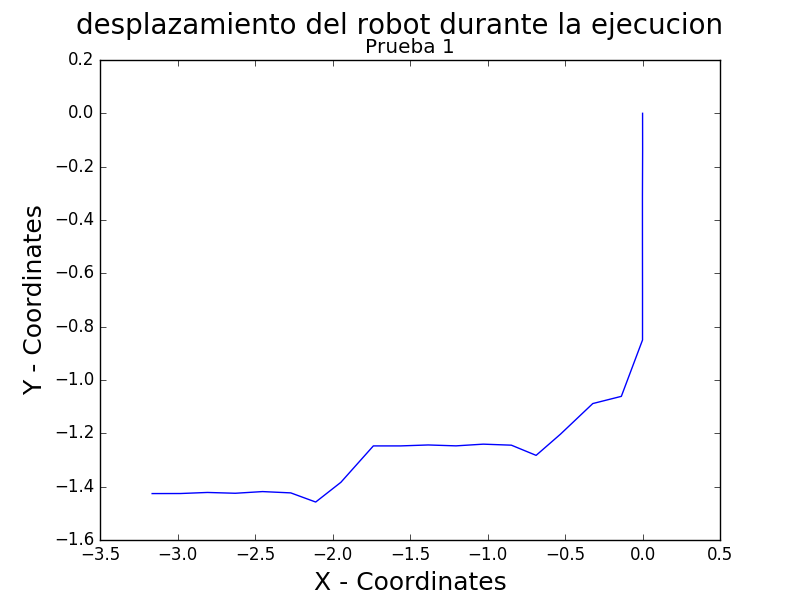
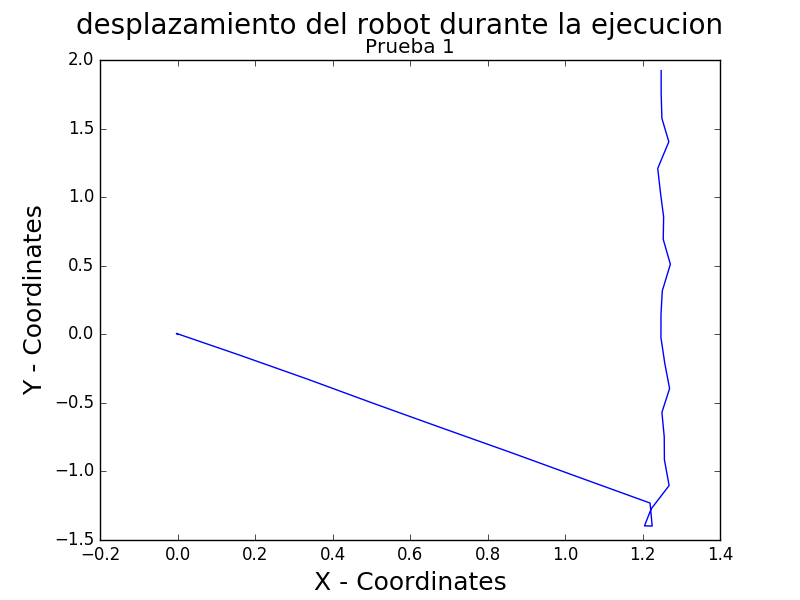
Tried to implement multipath at once!

diff --git a/src/A_star.py b/src/A_star.py
@@ -73,7 +73,7 @@ def redrawGameWindow(win):
     for i in range(cols):
         for j in range(rows):
             pygame.draw.rect(win, (0, 0, 255), (spots[i][j].x * w, 1 + spots[i][j].y * h, w, h), 1)
-    
+
     # Dibujams los openSet con verde
     for i,spot in enumerate(OpenSet):
         pygame.draw.rect(win, (0, 255, 0), (2 + spot.x * w, 3 + spot.y * h, w - 4, h - 4))
@@ -85,9 +85,9 @@ def redrawGameWindow(win):
     # Draw current
     pygame.draw.rect(win, (255, 0, 255), (2 + current.x * w, 3 + current.y * h, w - 4, h - 4))
 
-   # Draw the path in blue
-    for spot in path:
-        pygame.draw.rect(win, (0, 0, 255), (2 + spot.x * w, 3 + spot.y * h, w - 4, h - 4))
+    # Draw the path in blue
+    for spot in total_path:
+        pygame.draw.rect(win, (0, 0, 255), (2 + spot.x * w, 3 + spot.y * h, w - 4, h - 4))    
 
     # Draw Obstacles
     for spot in obstacles:
@@ -120,20 +120,37 @@ for x, y in zip(obstalce_x, obstacle_y):
     spots[int(x)][int(y)].obstacle = True
     obstacles.append(spots[int(x)][int(y)])
 
-OpenSet = []
-closedSet = []
-
-start = spots[21][20]
-end = spots[2][28]
+X_references = []
+Y_references = []
+points_to_go = [(21, 20), (28, 28),(28, 8), (13, 6)]
 path = []
-OpenSet.append(start)
-current = start
+total_path = []
+direction_changed = []
+z = 0
+z_changed = True
 
 gaming = True
 while gaming:
+    if z_changed:
+        OpenSet = []
+        closedSet = []
+        start = spots[points_to_go[z][0]][points_to_go[z][1]]
+        end = spots[points_to_go[z + 1][0]][points_to_go[z + 1][1]]
+        OpenSet.append(start)
+        current = start
+        z_changed = False
+        spots = [[Spot(i, j) for j in range(rows)] for i in range(cols)]
+        for i in range(len(spots)):
+            for j in range(len(spots[i])):
+                spots[i][j].addNeighbors(spots)
+        for x, y in zip(obstalce_x, obstacle_y):
+            spots[int(x)][int(y)].obstacle = True
+            obstacles.append(spots[int(x)][int(y)])
+
     clock.tick(12)
     #Find the path
     temp = current
+    path = []
     path.append(temp)
     #As long as the temp has a previous
     while temp.previous:
@@ -169,10 +186,18 @@ while gaming:
             while temp.previous:
                 current = temp
                 path.append(temp.previous)
+                total_path.append(temp.previous)
                 temp = temp.previous
-            system('cls')
+            for spot in reversed(path):
+                    X_references.append((spot.y - points_to_go[0][1]) * 0.178)
+                    Y_references.append((spot.x - points_to_go[0][0]) * 0.178)
+            direction_changed.append(len(X_references))
             print('Finish!')
-            gaming = False
+            z += 1
+            z_changed = True
+            if z == len(points_to_go) - 1:
+                gaming = False
+        
         try:
             OpenSet.remove(current)
         except ValueError as e:
@@ -185,9 +210,6 @@ while gaming:
         for neighbor in neighbors:
             if not(neighbor in closedSet)  and not(neighbor.obstacle): # ceck if neighbor is available to visit
                 temp = current.g + heuristic(neighbor, current)
-
-                newpath = False
-
                 if not(neighbor in OpenSet):
                     OpenSet.append(neighbor)
                 elif temp >= neighbor.g:
@@ -210,19 +232,18 @@ while gaming:
 pygame.image.save(screen, '/home/lucas/catkin_ws/src/proyecto_de_grado/Imgs/Prueba2.png')
 
 """ Once the Path finder algoritm ends, export the path for the turtlebot to follow """
-X_references = []
-Y_references = []
-for spot in reversed(path):
-    X_references.append((spot.y - start.y) * 0.178)
-    Y_references.append((spot.x - start.x) * 0.178)
-
 x_followed = []
 y_followed = []
+goal_zs = []
+from math import atan2
+for i in range(len(X_references) - 1):
+    goal_zs.append(atan2(Y_references[i + 1] - Y_references[i],X_references[i + 1] - X_references[i])) 
+goal_zs.append(goal_zs[-1])
 
 import rospy
 from geometry_msgs.msg import Twist, Point, Quaternion
 import tf
-from math import radians, copysign, sqrt, pow, pi, atan2
+from math import radians, copysign, sqrt, pow, pi
 from tf.transformations import euler_from_quaternion
 import numpy as np
 import matplotlib.pyplot as plt
@@ -260,8 +281,15 @@ class GotoPoint():
             angular_speed = 1
             goal_x = X_references[i]
             goal_y = Y_references[i]
+            goal_z = goal_zs[i]
             goal_distance = sqrt(pow(goal_x - position.x, 2) + pow(goal_y - position.y, 2))
             distance = goal_distance
+            changepathflag = 0
+
+            print """------------------------------
+            siguiente punto:
+            %s, %s
+            """ % (goal_x, goal_y)
 
             while distance > 0.05:
                 (position, rotation) = self.get_odom()
@@ -292,6 +320,25 @@ class GotoPoint():
                 self.cmd_vel.publish(move_cmd)
                 r.sleep()
             (position, rotation) = self.get_odom()
+
+            while abs(rotation - goal_z) > 0.016:
+                (position, rotation) = self.get_odom()
+                if goal_z >= 0:
+                    if rotation <= goal_z and rotation >= goal_z - pi:
+                        move_cmd.linear.x = 0.00
+                        move_cmd.angular.z = 0.5
+                    else:
+                        move_cmd.linear.x = 0.00
+                        move_cmd.angular.z = -0.5
+                else:
+                    if rotation <= goal_z + pi and rotation > goal_z:
+                        move_cmd.linear.x = 0.00
+                        move_cmd.angular.z = -0.5
+                    else:
+                        move_cmd.linear.x = 0.00
+                        move_cmd.angular.z = 0.5
+                self.cmd_vel.publish(move_cmd)
+                r.sleep()
 
         self.cmd_vel.publish(Twist())
         fig = plt.figure()
